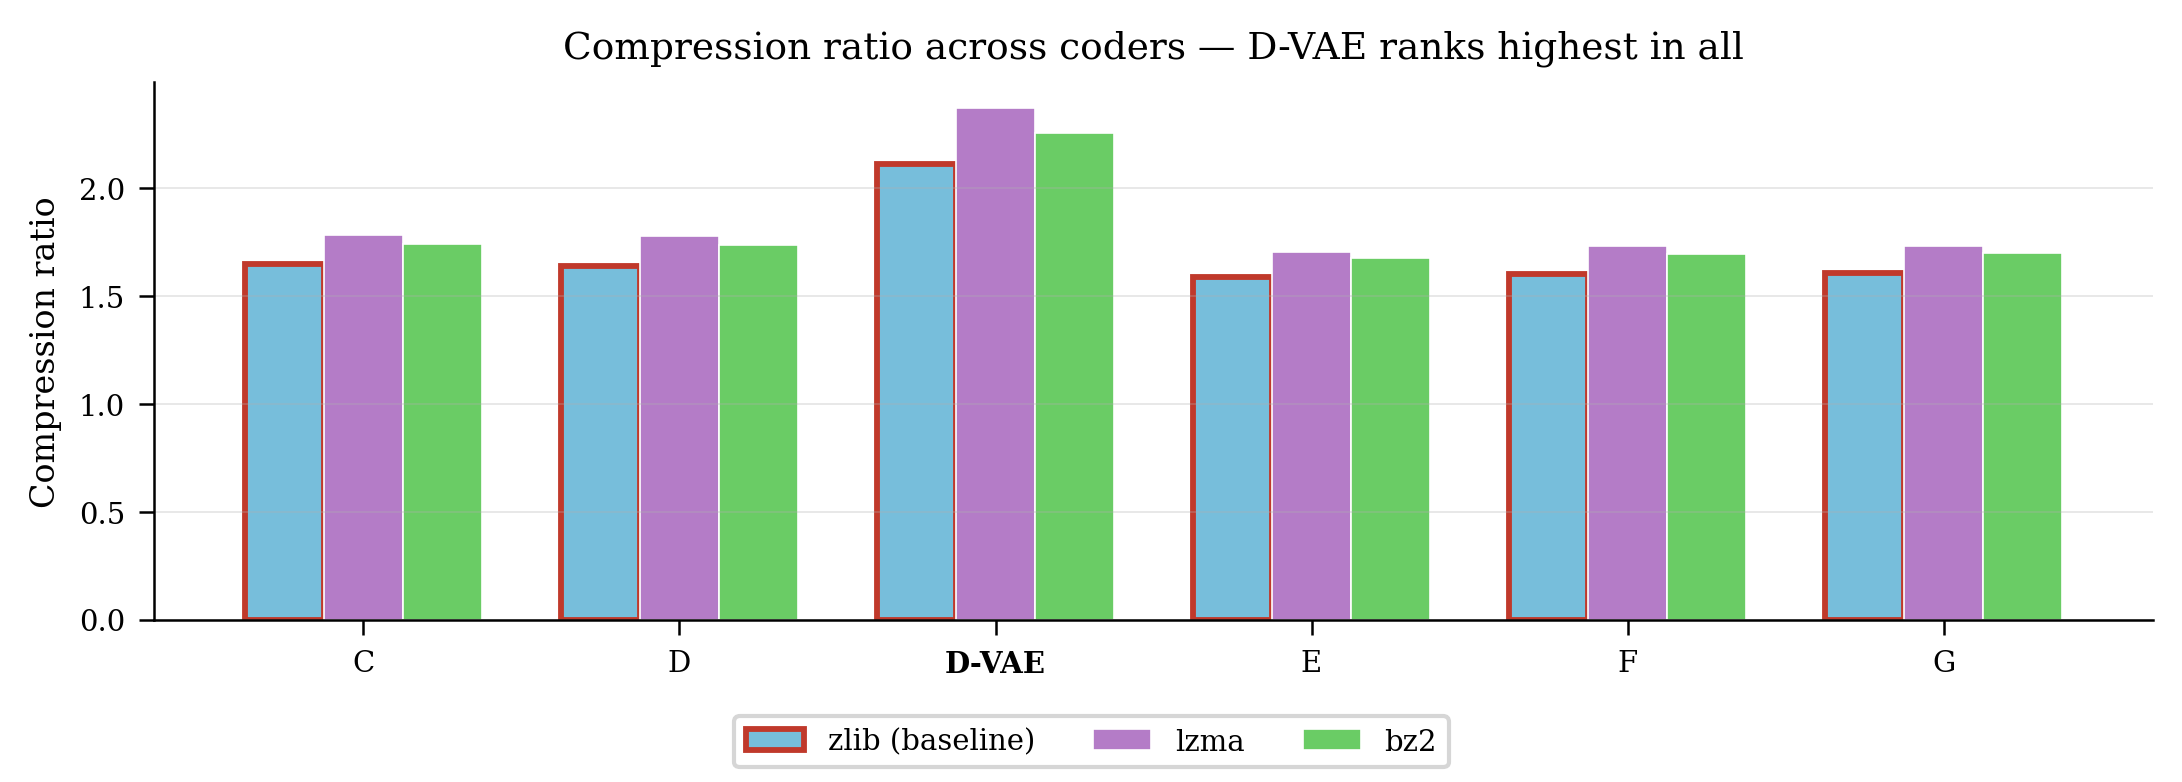
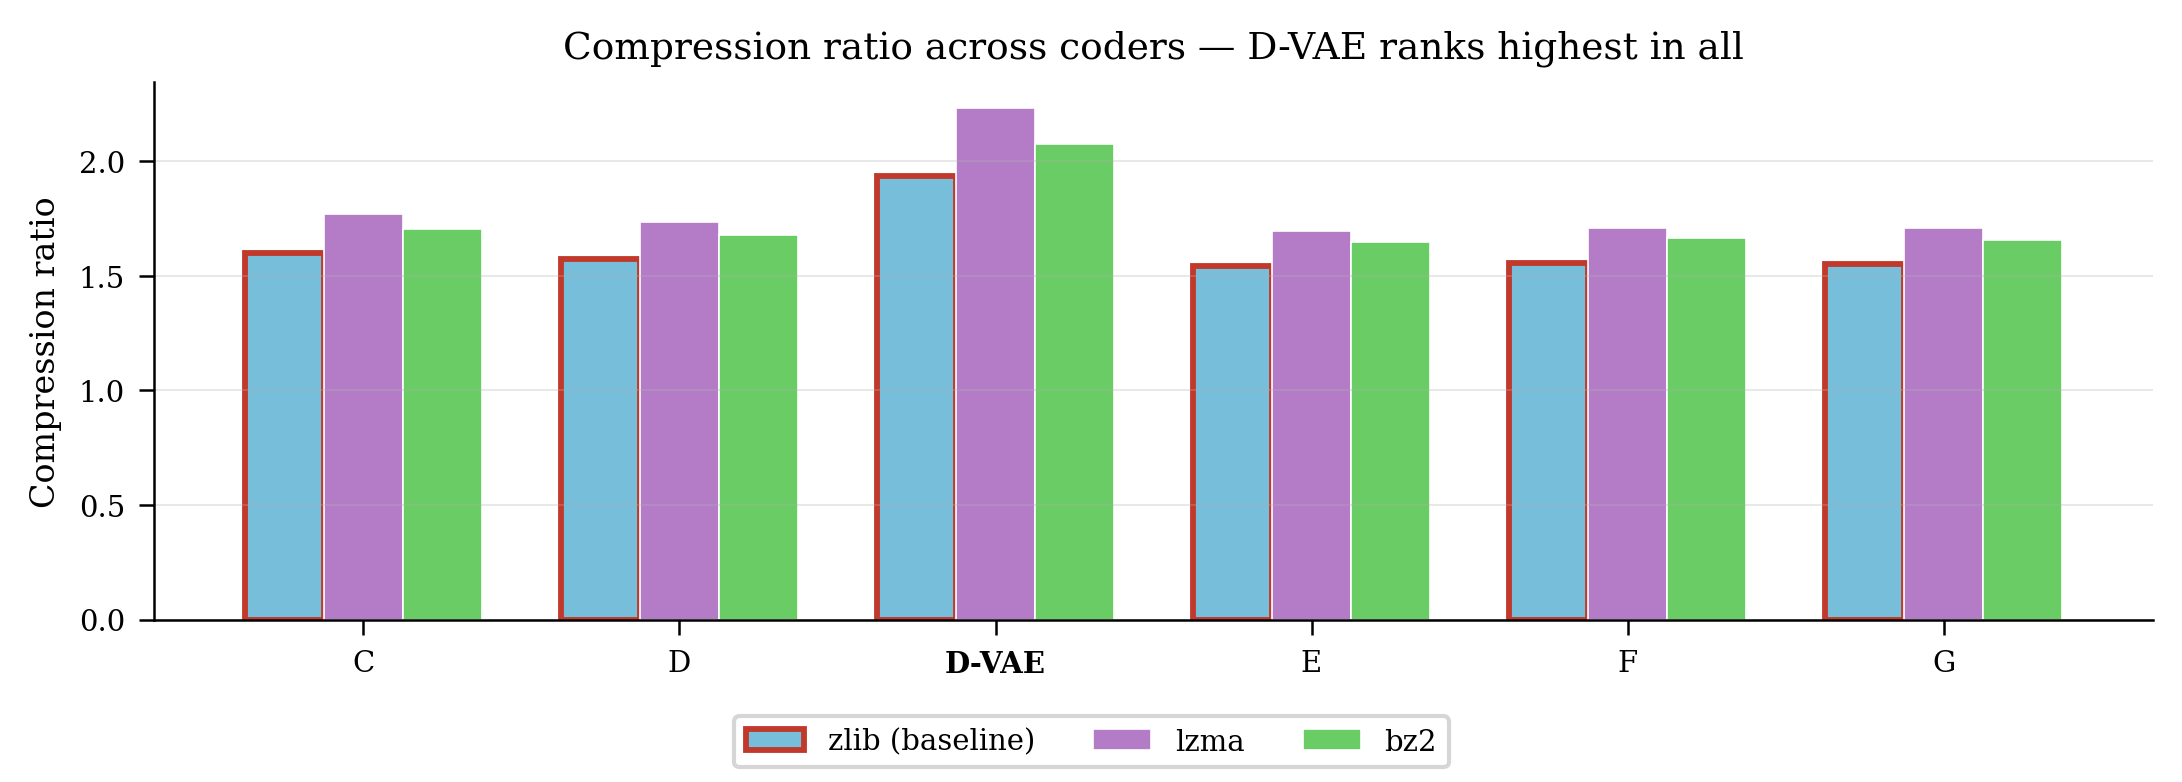
fix: update README and scripts to clarify checkpoint availability and improve data loading logic

diff --git a/src/codec_utils.py b/src/codec_utils.py
@@ -23,9 +23,15 @@ except ImportError:
 
 
 def find_checkpoint(project_root: Path) -> Path:
-    """Return the best available checkpoint. Phase G is preferred — it achieves
-    the highest PESQ/STOI scores across all trained phases."""
+    """Return the best available checkpoint. The platform is the corrected 100ms
+    attention window (`_fixed`, issues #27-29) -- preferred first, at each phase
+    depth, so a machine with only the original bootstrap bundle (which does not
+    yet carry the `_fixed` family -- pending a re-upload) still falls back
+    correctly instead of raising."""
     for p in [
+        project_root / 'checkpoints_active/temporal_phaseG_fixed/best.pt',
+        project_root / 'checkpoints_active/temporal_phaseF_fixed/best.pt',
+        project_root / 'checkpoints_active/temporal_phaseC_fixed/best.pt',
         project_root / 'checkpoints_active/temporal_phaseG/best.pt',
         project_root / 'checkpoints_active/temporal_phaseF/best.pt',
         project_root / 'checkpoints_active/temporal_phaseC/best.pt',

diff --git a/scripts/download_checkpoints.py b/scripts/download_checkpoints.py
@@ -7,6 +7,16 @@ No access token required.
 
 Usage:
   python scripts/download_checkpoints.py
+
+KNOWN GAP (2026-09-09): this bundle carries only the original checkpoints
+(C/D/D-VAE/E/F/G, pre-#27 attention-window fix). The platform this project now
+reports against is the `_fixed` family (100ms window, issues #27-29) plus
+D-Entropy -- none of that is in this zip yet. `find_checkpoint()` in
+src/codec_utils.py already prefers `_fixed` and falls back to these, so nothing
+breaks on a fresh clone, but a fresh clone cannot reproduce the README's headline
+numbers until this bundle is re-exported to include the `_fixed` checkpoints
+(and ideally temporal_phaseEntropy / temporal_phaseEntropy_fixed). That
+re-export needs Drive access this environment doesn't have -- pending.
 """
 
 import sys

diff --git a/scripts/figures/plots.py b/scripts/figures/plots.py
@@ -570,8 +570,12 @@ def fig_15_dual_entropy(data: dict) -> plt.Figure:
 # ---------------------------------------------------------------------------
 
 def fig_16_multi_coder(data: dict) -> plt.Figure:
-    rows   = data['multi_coder']
-    phases = [r['phase'] for r in rows]
+    all_rows = data['multi_coder']
+    # Prefer the platform (_fixed) family when both are present in the same report
+    # (post-2026-09-09 runs carry all 12); fall back to whatever's there otherwise.
+    fixed_rows = [r for r in all_rows if r['phase'].endswith('-fixed')]
+    rows   = fixed_rows if fixed_rows else all_rows
+    phases = [r['phase'].removesuffix('-fixed') for r in rows]
     zlib   = [r['zlib']  for r in rows]
     lzma   = [r['lzma']  for r in rows]
     bz2    = [r['bz2']   for r in rows]

diff --git a/scripts/figures/data_loader.py b/scripts/figures/data_loader.py
@@ -67,7 +67,8 @@ def load_all(project_root: Path) -> dict:
 
     # One-off historical snapshots, evaluated on the fixed canonical 5-speaker
     # set (unaffected by dataset completeness) -- pinned dates are fine here.
-    _try(data, 'multi_coder',  _load_multi_coder,     comp / '2026-07-10_multi_coder' / 'report.txt')
+    mc_dir = _latest(comp, '*_multi_coder')
+    _try(data, 'multi_coder',  _load_multi_coder,     (mc_dir or comp / '2026-07-10_multi_coder') / 'report.txt')
     ood_dir = _latest(comp, '*_ood_eval_temporal_phaseG_fixed') or comp / '2026-07-01_ood_eval'
     _try(data, 'ood',          _load_ood,             ood_dir / 'report.txt')
     corr_dir = _latest(comp, '*_corruption_test_temporal_phaseG_fixed') or comp / '2026-07-01_corruption_test'

diff --git a/README.md b/README.md
@@ -233,6 +233,13 @@ pip install -r requirements.txt
 python bootstrap.py
 ```
 
+> **Checkpoint bundle note:** the downloadable bundle currently carries the original
+> checkpoints (pre-#27 attention-window fix), not the `_fixed` platform family this
+> README reports numbers for. `find_checkpoint()` falls back to those automatically, so
+> nothing breaks — but a fresh clone won't reproduce the headline numbers above until the
+> bundle is updated. If you trained locally, `checkpoints_active/temporal_phaseG_fixed/best.pt`
+> is what these results describe.
+
 Once bootstrap completes with no failures, run inference:
 
 ```
